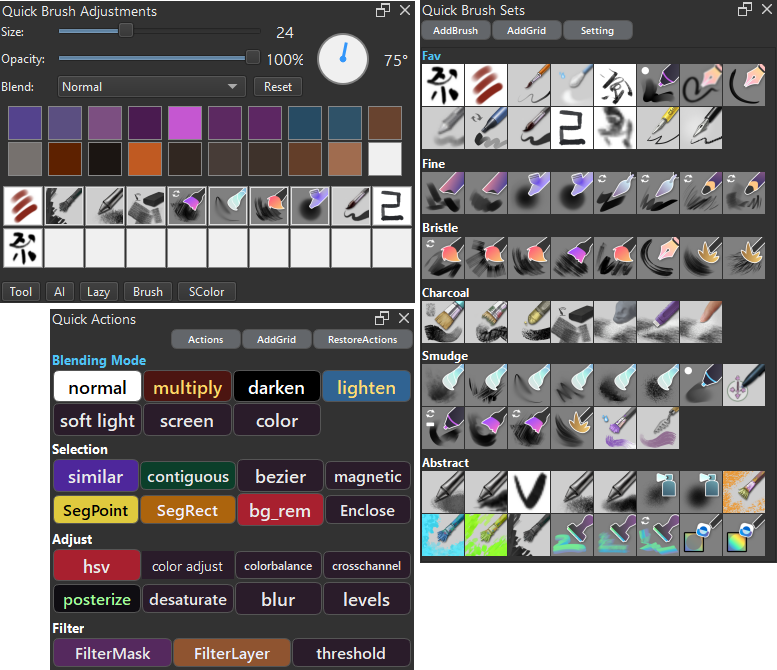
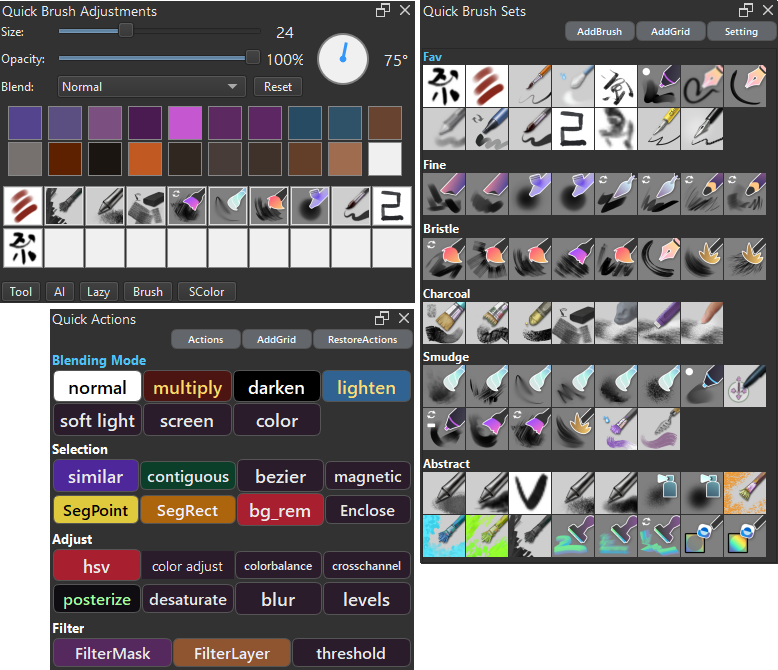
update button position

diff --git a/quick_access_manager/quick_access_manager.py b/quick_access_manager/quick_access_manager.py
@@ -72,6 +72,9 @@ class QuickAccessDockerWidget(QDockWidget):
         button_layout_1 = QHBoxLayout()
         button_layout_1.setSpacing(1)
 
+        # Add stretch to push buttons to the right
+        button_layout_1.addStretch()
+
         # Add Brush button
         add_brush_button = QPushButton("AddBrush")
         add_brush_button.setStyleSheet(docker_btn_style())
@@ -95,9 +98,6 @@ class QuickAccessDockerWidget(QDockWidget):
 
         central_widget.setLayout(main_layout)
         self.setWidget(central_widget)
-
-        # Add stretch to push buttons to the left
-        button_layout_1.addStretch()
 
         main_layout.addLayout(button_layout_1)
 
